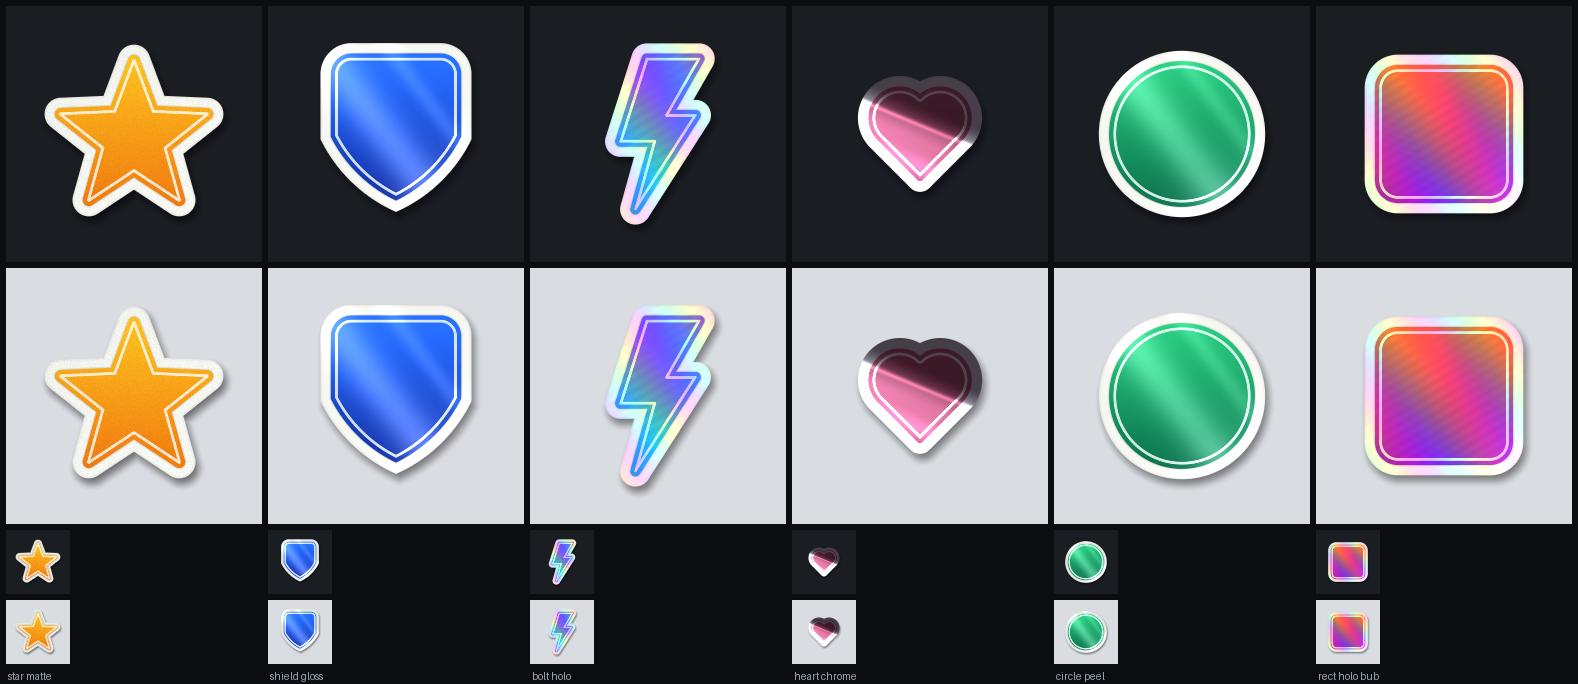
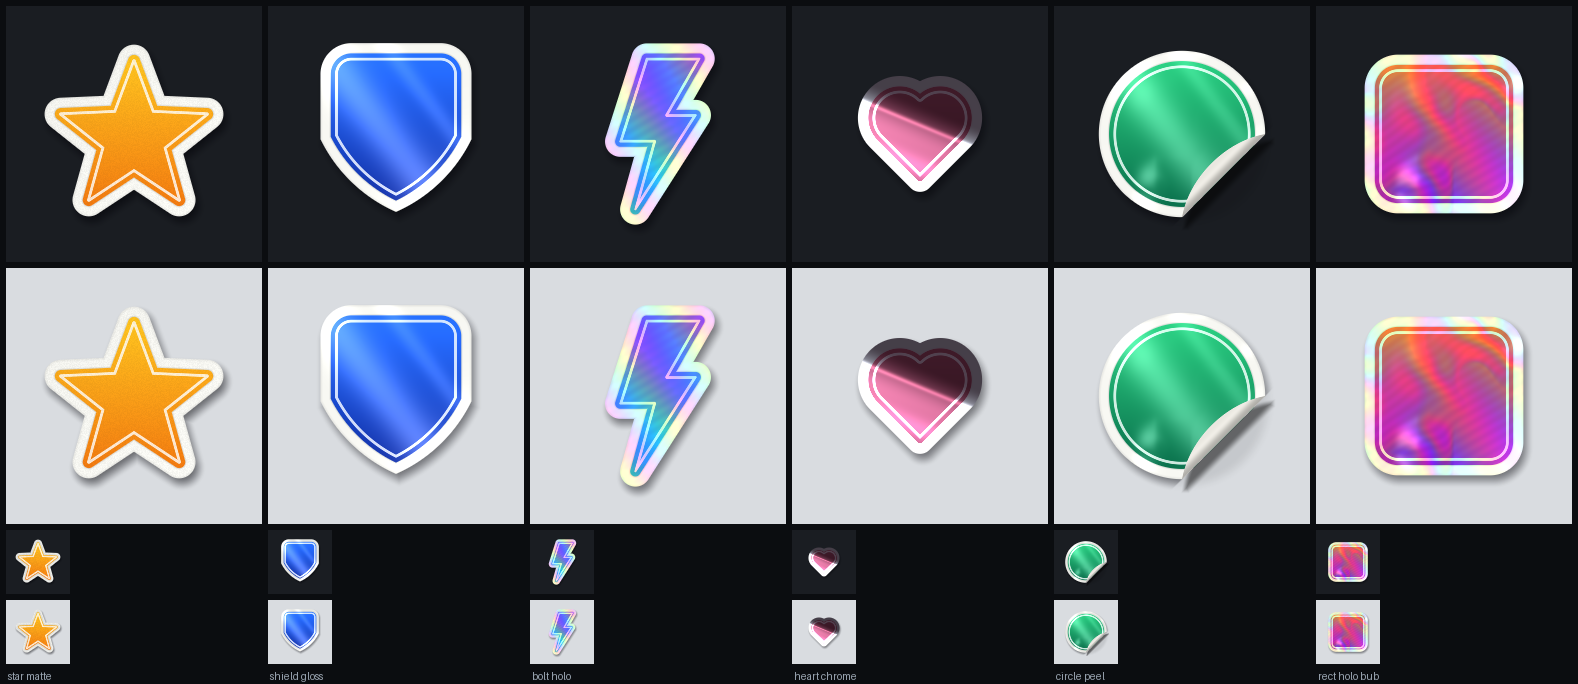
UI/Decal/Sticker step 3: peeled corner, surface bubbles, docs §11.4
Claude-Session: https://claude.ai/code/session_017LedbnxxdVzaJ9yFrRvyoQ

diff --git a/Looks/_decals/make_sheets.py b/Looks/_decals/make_sheets.py
@@ -58,7 +58,7 @@ VARIANTS = {
         ("shield gloss",   {"_Shape": 3, "_Finish": 1, "_ArtColor": "#2E7BFF", "_ArtColor2": "#1233A8", "_Sheen": 0.8}),
         ("bolt holo",      {"_Shape": 4, "_Finish": 2, "_ArtColor": "#7A5CFF", "_ArtColor2": "#20B8E0", "_Sheen": 0.9}),
         ("heart chrome",   {"_Shape": 5, "_Finish": 3, "_ArtColor": "#FF4D7D", "_ArtColor2": "#B01040", "_Sheen": 0.9}),
-        ("circle peel",    {"_Shape": 0, "_Finish": 1, "_ArtColor": "#2FD08A", "_ArtColor2": "#0C7A55", "_Sheen": 0.7, "_Peel": 0.45, "_Bubbles": 0.5}),
+        ("circle peel",    {"_Shape": 0, "_Finish": 1, "_ArtColor": "#2FD08A", "_ArtColor2": "#0C7A55", "_Sheen": 0.7, "_Peel": 0.6, "_Bubbles": 0.5}),
         ("rect holo bub",  {"_Shape": 1, "_Finish": 2, "_ArtColor": "#FF6A3D", "_ArtColor2": "#8E1FD0", "_Sheen": 0.8, "_Bubbles": 0.8}),
     ]),
 }

diff --git a/Docs/UiDecals.md b/Docs/UiDecals.md
@@ -298,3 +298,36 @@ both edges.
 Known limits (all three): the quad must be square (uv is treated as isotropic); the decal is flat colour + coverage — the
 paint-material texture (gloss/height, §3.1 P2) is not produced yet; FXC compile time of these shaders has not been
 measured (all are tiny, fixed `[unroll]`, no widget shader changed).
+
+### 11.4 Sticker — built  ·  `UI/Decal/Sticker` — `DecalSticker.shader`  ·  `Looks/_decals/sticker.png`
+A die-cut vinyl sticker on a UGUI quad (uv 0..1, **square quad**, picture centred −1..1). Unlike 11.1–11.3 it is a
+normal UGUI shader: stencil, `_ClipRect`, vertex-colour tint, `Blend SrcAlpha OneMinusSrcAlpha` (non-premultiplied).
+Art = `_MainTex` alpha as an SDF-ish mask (`_UseTex` on) or a procedural `_Shape`. A white vinyl margin follows the art
+outline (art offset by `_Border`), the art is printed with a keyline, and a contact shadow is drawn inside the same quad.
+Finishes: matte (paper grain), gloss (moving sheen band + spec lobe), holo (rainbow bands + diffraction ruling sliding
+with `_LightDir`), chrome (banded studio reflection tinted by the print). The sheet is bowed (`_Curve`) so the light
+direction moves the highlights across it. `_Peel` folds the bottom-right corner back over the sticker (white backing,
+curl highlight, crease, cast shadow); `_Bubbles` adds blister-like normal noise that only disturbs the sheen/reflection.
+
+| Property | Range | Default | What it does |
+|---|---|---|---|
+| `_MainTex` / `_UseTex` | 2D / toggle | white / 0 | art mask (alpha 0.5 = edge, rgb multiplies the print) when on, else `_Shape` |
+| `_Shape` | enum | 2 | 0 circle, 1 rounded rect, 2 star, 3 shield, 4 bolt, 5 heart |
+| `_SdfSpread` | 0.02–0.5 | 0.12 | uv distance the texture's alpha ramp spans (keep `_Border` below it) |
+| `_ArtSize` | 0.3–0.9 | 0.6 | art extent as a fraction of the half quad (the rest holds border + shadow) |
+| `_ArtColor` / `_ArtColor2` | colour | red / dark red | print gradient, top → bottom |
+| `_InkColor` / `_Keyline` | colour / 0–1 | white / 0.8 | inner keyline colour / strength |
+| `_Border` / `_BorderColor` | 0–0.15 / colour | 0.04 / off-white | white vinyl margin (uv) / its colour |
+| `_ShadowOffset` / `_ShadowSoftness` / `_ShadowOpacity` | vector (uv) / 0.002–0.15 / 0–1 | (0.012,−0.022) / 0.03 / 0.45 | contact shadow |
+| `_Finish` | enum | 1 | 0 matte, 1 gloss, 2 holo, 3 chrome |
+| `_Sheen` | 0–1 | 0.6 | finish strength (band/spec/rainbow/mirror mix) |
+| `_LightDir` | vector | (−0.45,0.55,0.7) | direction to the light; x,y slide the bands / holo hue / chrome horizon |
+| `_Curve` / `_Shininess` / `_HoloScale` | 0–0.8 / 4–200 / 0.5–6 | 0.3 / 50 / 2.2 | sheet bow / spec tightness / holo band density |
+| `_Peel` / `_PeelShadow` | 0–1 / 0–1 | 0 / 0.5 | peeled-corner amount (0 = off) / its cast shadow |
+| `_Bubbles` / `_BubbleScale` / `_BubbleSeed` | 0–1 / 1–8 / float | 0 / 3 / 1 | blister normals (sheen only) / size / pattern |
+| `_Color` | colour | white | UGUI tint (× vertex colour) |
+
+Notes: all derivatives (`fwidth`) are taken once, outside branches; texture reads are `tex2Dlod`; art SDF is evaluated
+3× per pixel (body, shadow, and 2 with `_Peel`: flap + flap shadow; peel work is gated by arithmetic, not a branch).
+No other shader changed. FXC compile time not measured (no Unity here); the SDF bolt uses a fixed 7-edge `[unroll]`.
+Known limits: square quads only; peel corner fixed at bottom-right; texture art needs `_Border` ≤ `_SdfSpread`.
